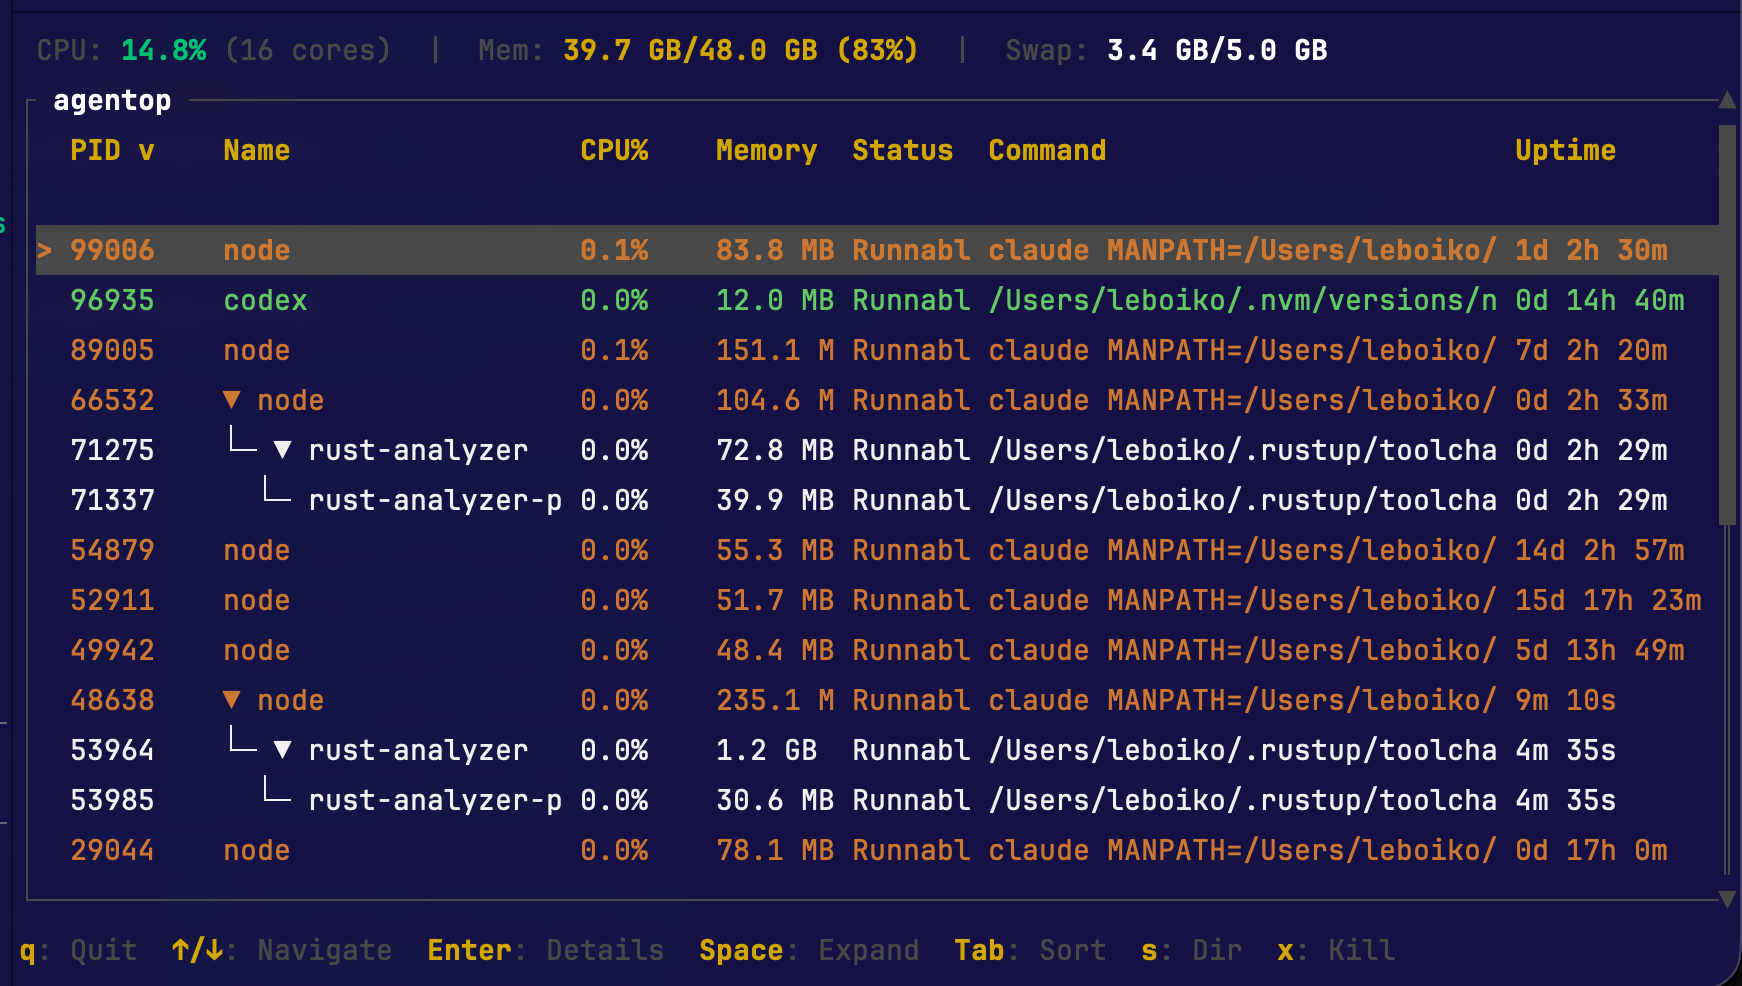
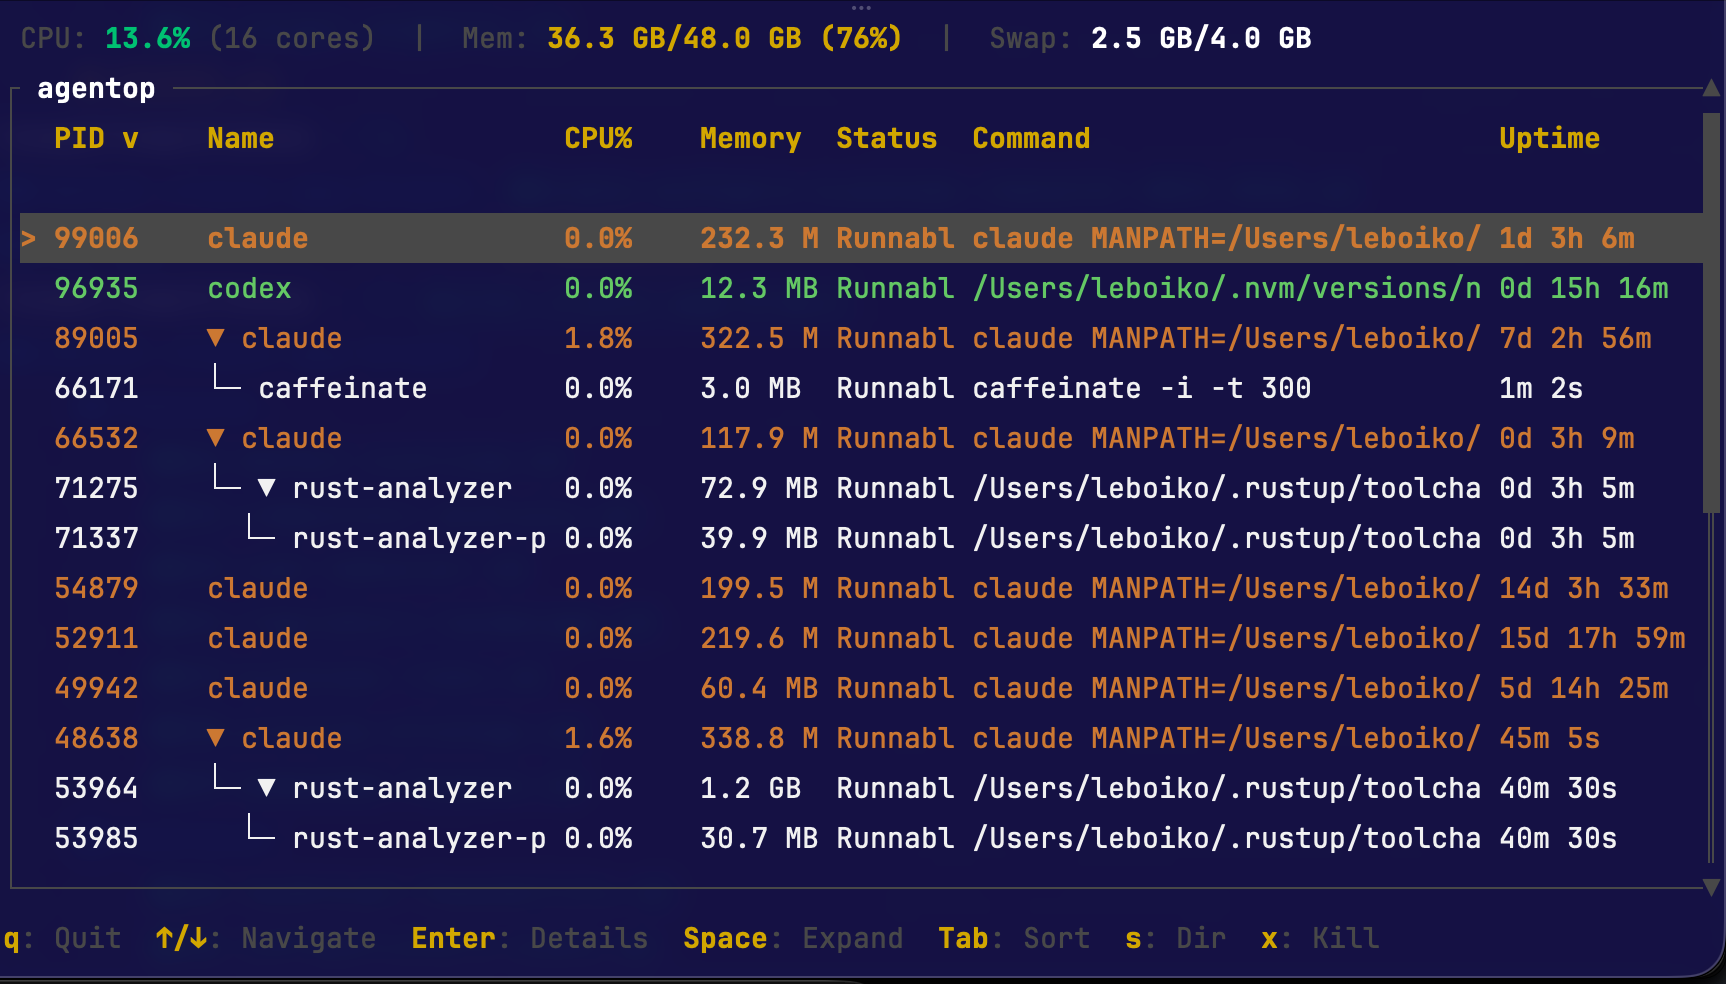
Show friendly name (claude/codex) instead of node, bump to 0.2.0
Root processes detected as Claude or Codex now display their friendly
name in the Name column instead of the raw OS process name (node).

diff --git a/src/ui/tree_view.rs b/src/ui/tree_view.rs
@@ -69,7 +69,16 @@ fn name_cell(entry: &FlatEntry) -> String {
     } else {
         ""
     };
-    format!("{}{}{}", prefix, indicator, entry.info.name)
+    let display_name = if entry.is_root {
+        match &entry.kind {
+            Some(ProcessKind::Claude) => "claude",
+            Some(ProcessKind::Codex) => "codex",
+            _ => &entry.info.name,
+        }
+    } else {
+        &entry.info.name
+    };
+    format!("{}{}{}", prefix, indicator, display_name)
 }
 
 /// Build the table rows from a flattened process list.
